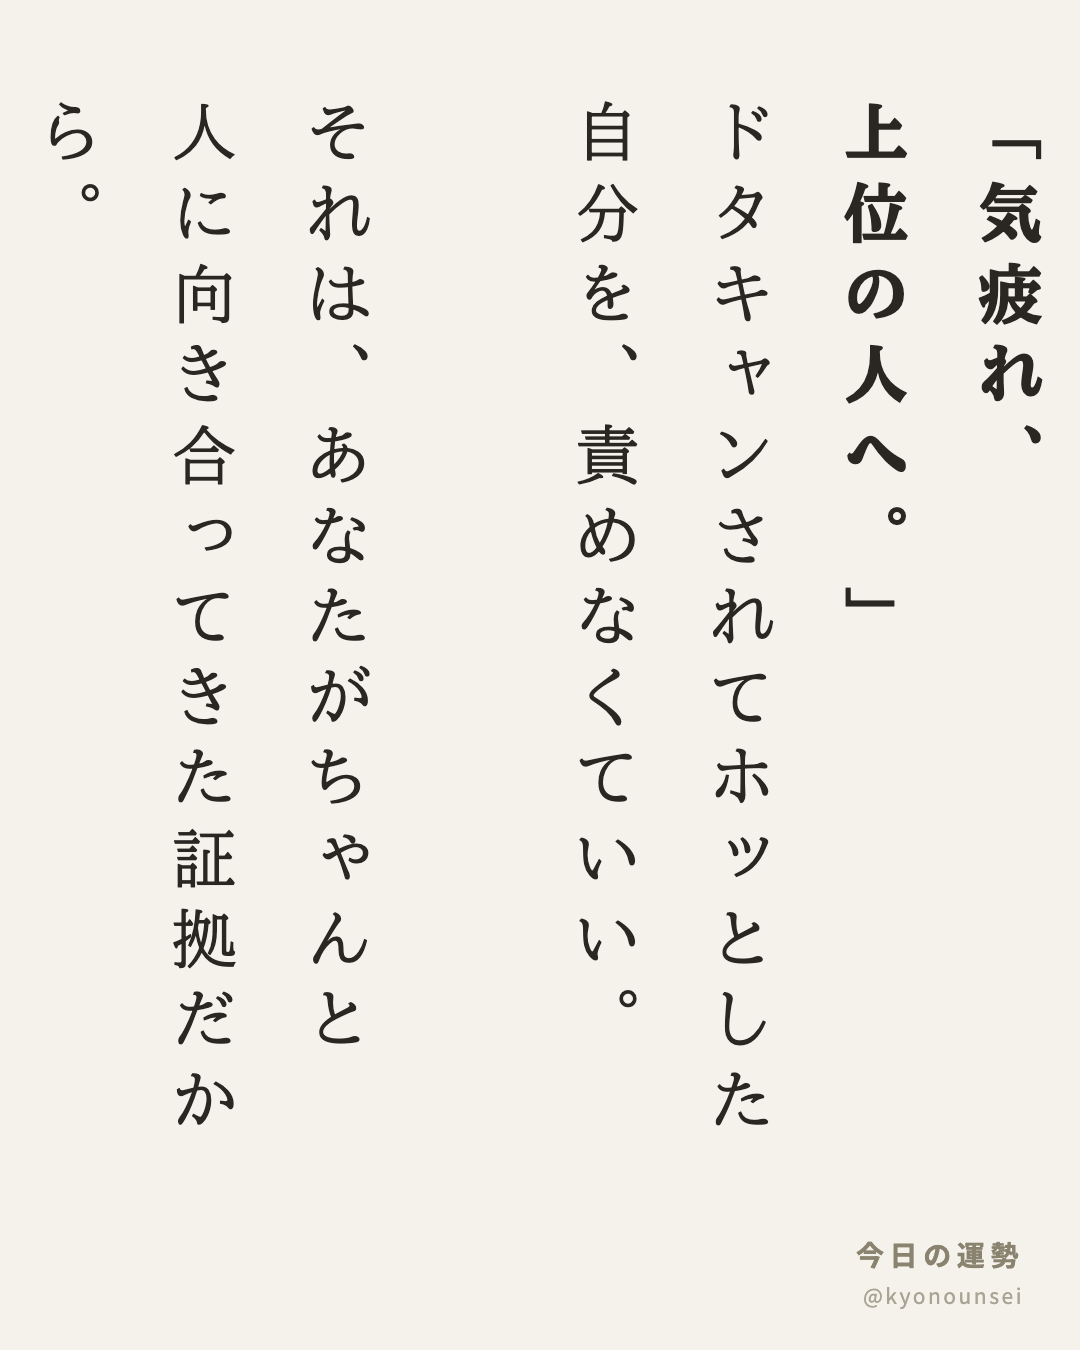
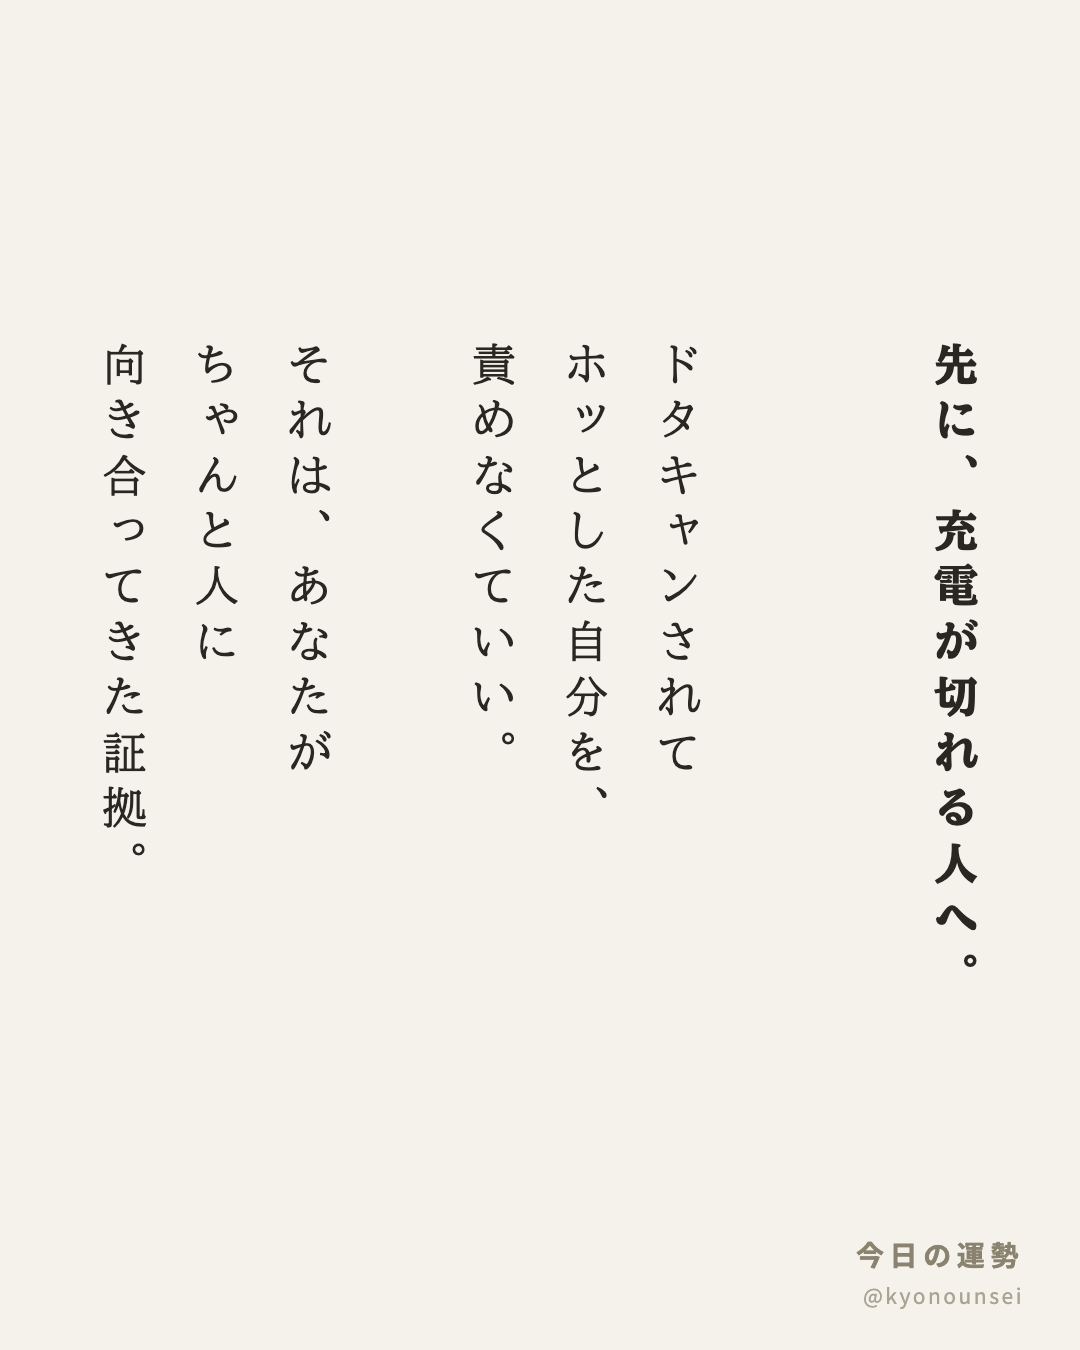
fix dotakyan slides 7-8: theme-word address + correct manual line breaks (avoid max-height mid-word wrap)

diff --git a/drafts/index.html b/drafts/index.html
@@ -47,7 +47,7 @@
     <h2>ドタキャンされてホッとした人</h2>
     <span class="count">9枚</span>
   </div>
-  <ul class="warn"><li>スライド7（width）: 実測1075px &gt; 上限1000px</li></ul>
+  
   <div class="row">
     <img src="dotakyan/dotakyan_1.png" loading="lazy">
     <img src="dotakyan/dotakyan_2.png" loading="lazy">
